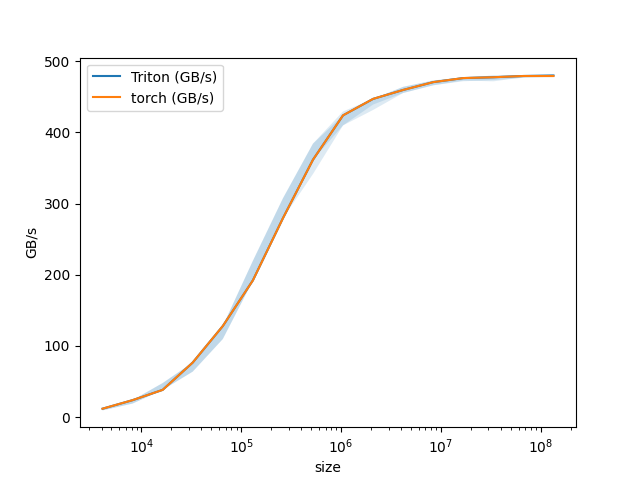
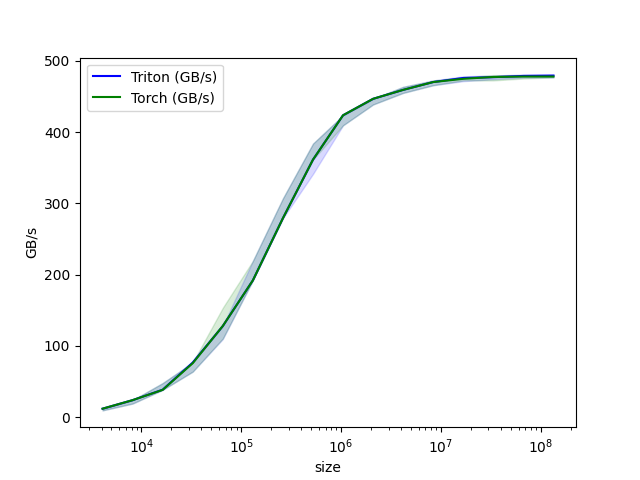
code along for vector addition

diff --git a/04_vector_addition/code_along_1.py b/04_vector_addition/code_along_1.py
@@ -72,9 +72,9 @@ def test_add_kernel(size, atol=1e-3, rtol=1e-3, device = DEVICE):
         x_vals=[2**i for i in range(12,28,1)],
         x_log = True, #logarithmic scale
         line_arg = 'provider',
-        line_vals = ['triton','torch'],
-        line_names = ['Triton', 'torch'],
-        # style = [('blue','-'), ('green','-')],
+        line_vals = ['Triton','Torch'],
+        line_names = ['Triton', 'Torch'],
+        styles = [('blue','-'), ('green','-')],
         ylabel = 'GB/s',
         plot_name = 'vector-add-performance',
         args={},
@@ -85,12 +85,13 @@ def benchmark(size,provider):
     x = torch.randn(size, device=DEVICE, dtype=torch.float32)
     y = torch.randn(size, device=DEVICE, dtype=torch.float32)
 
-    quantiles = [0.5,0.05,0.95]
-    if provider == 'torch':
+    quantiles = [0.5,0.05,0.95] #median, 5% slowest, and 5% fastest
+    if provider == 'Torch':
         ms, min_ms, max_ms = triton.testing.do_bench(lambda: x+y, quantiles = quantiles)
-    if provider == 'triton':
+    if provider == 'Triton':
         ms, min_ms, max_ms = triton.testing.do_bench(lambda: add(x,y), quantiles = quantiles)
 
+    # millisec of the ops = rounds of memory ops * total num of elements * size of each elements * bytes -> gigabytes * (ms to sec)
     gbps = lambda ms: 3 * x.numel() * x.element_size() * 1e-9 / (ms * 1e-3) # cuz we did 3 memory ops, 1e-9 converts raw bytes to gigabytes
 
     return gbps(ms), gbps(max_ms), gbps(min_ms)
